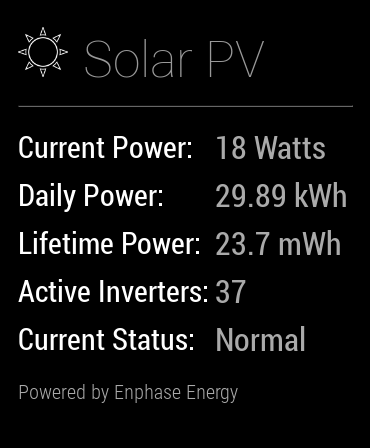
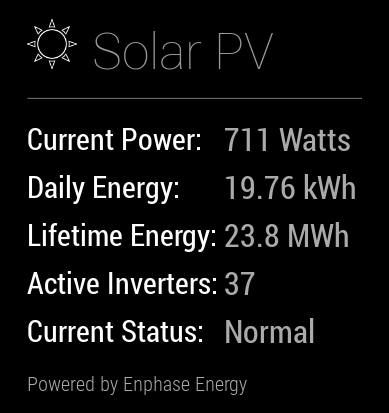
Updated units and terminology

diff --git a/MMM-Solar.js b/MMM-Solar.js
@@ -18,8 +18,8 @@ Module.register("MMM-Solar",{
     start: function() {
         Log.info("Starting module: " + this.name);
 
-        this.titles = ["Current Power:", "Daily Power:", "Lifetime Power:", "Active Inverters: ", "Current Status:"];
-	      this.suffixes = ["Watts", "kWh", "mWh", "", ""];
+        this.titles = ["Current Power:", "Daily Energy:", "Lifetime Energy:", "Active Inverters: ", "Current Status:"];
+	      this.suffixes = ["Watts", "kWh", "MWh", "", ""];
 	      this.results = ["Loading", "Loading", "Loading", "Loading", "Loading"];
         this.loaded = false;
         this.getSolarData();
